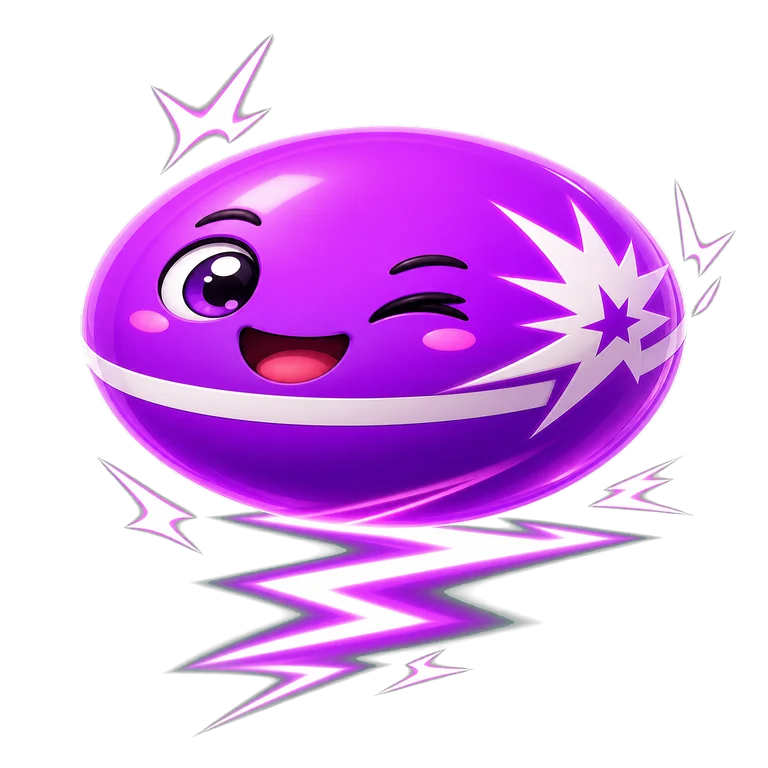
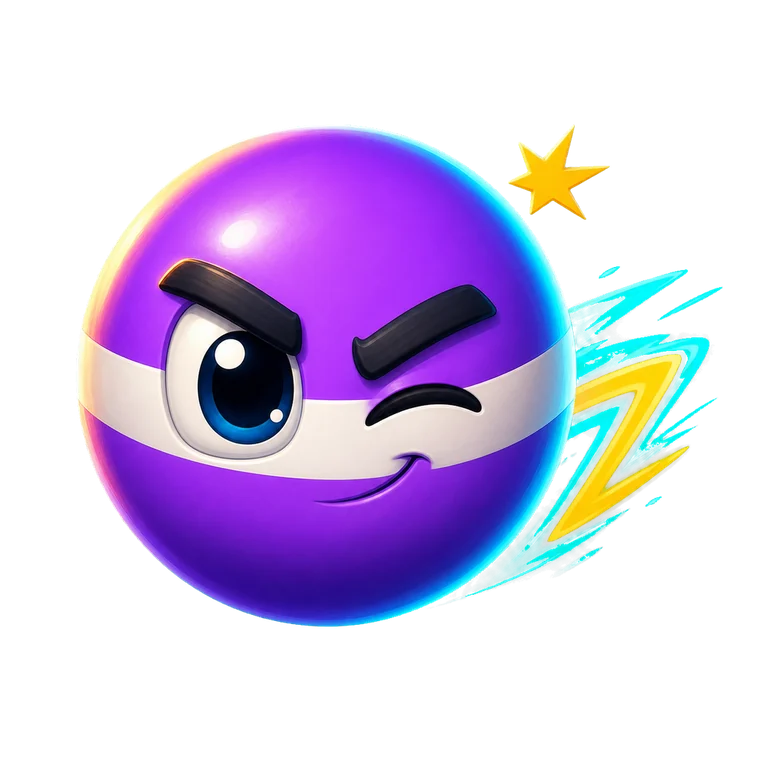
bolas v3 en produccion: los 12 heroes redibujados como una familia
24 piezas nuevas (icon 512 / hero 768, 1,38 MB). Un solo acabado, un solo rig de cara y
la misma luz de marca en las 24. Viaja tambien el pase de tamanos de toque del Home.

diff --git a/play-cktxj8m6/index.html b/play-cktxj8m6/index.html
@@ -346,7 +346,12 @@
   .pr-toggle{ display:flex; align-items:center; gap:11px; } .pr-toggle .tx{ flex:1; font-size:13px; color:#d6dbf4; line-height:1.4; }
   .pr-sw{ width:46px; height:27px; border-radius:999px; background:#ffffff1c; border:1px solid var(--line); position:relative; cursor:pointer; flex:0 0 auto; transition:background .2s; } .pr-sw::after{ content:''; position:absolute; top:2px; left:2px; width:21px; height:21px; border-radius:50%; background:#fff; transition:left .2s; } .pr-sw.on{ background:linear-gradient(#5bc46a,#2fa049); } .pr-sw.on::after{ left:21px; }
   /* --- Fase D: botones de barra (⚙ 🎬), modo jugable, Onboarding (doc 05 §3), Settings (doc 26), canje de codigo (doc 16) --- */
-  .h-ic{ width:34px; height:34px; border-radius:12px; background:#0007; border:1px solid var(--line); color:#e7ebff; font-size:16px; cursor:pointer; display:grid; place-items:center; padding:0; } .h-ic:active{ transform:translateY(1px); }
+  /*+AG auditoria Supercell 26-jul: median 34 px de lado y ademas el flex los encogia a 15-24 px REALES
+     (sintoma del desbordamiento de la fila) — muy por debajo del minimo tactil de 44 px. Se arregla en
+     dos pasos: flex:0 0 auto para que no vuelvan a encogerse nunca, y un halo transparente que sube el
+     area de toque a 44 sin engordar el dibujo (la fila iba justa de ancho: crecer la habria desbordado). */
+  .h-ic{ position:relative; flex:0 0 auto; width:36px; height:36px; border-radius:12px; background:#0007; border:1px solid var(--line); color:#e7ebff; font-size:16px; cursor:pointer; display:grid; place-items:center; padding:0; } .h-ic:active{ transform:translateY(1px); }
+  .h-ic::before{ content:''; position:absolute; inset:-5px; border-radius:16px; }   /* inset mide desde la caja de PADDING: con borde de 1px, -4 daba 42 y no 44 */
   .h-modes .m.open{ filter:none; opacity:1; border-color:var(--gold2); background:#ffffff16; cursor:pointer; box-shadow:0 4px 14px #fbb91533; } .h-modes .m.open .lk{ color:var(--gold2); }
   #onb{ position:absolute; inset:0; z-index:70; background:radial-gradient(120% 80% at 50% 18%,var(--bg),var(--bg-lo)); display:none; flex-direction:column; align-items:center; justify-content:center; padding:24px; }
   #onb.on{ display:flex; }
@@ -453,7 +458,9 @@
   .hero canvas{ width:164px; height:164px; filter:drop-shadow(0 16px 24px #0009); animation:breathe 3.1s ease-in-out infinite; }
   .hero .ballname{ display:flex; align-items:center; gap:7px; font-size:24px; font-weight:900; letter-spacing:-.01em; margin-top:4px; text-shadow:0 3px 14px #000a; }
   .hero .ballcups{ display:flex; align-items:center; justify-content:center; gap:5px; font-size:14px; font-weight:900; color:var(--gold2); font-variant-numeric:tabular-nums; text-shadow:0 2px 8px #fbb91544; }
-  .hero .balltag{ font-size:10px; letter-spacing:.14em; font-weight:800; color:var(--gold2); text-transform:uppercase; text-align:center; }
+  /*+AG 26-jul: iba en ORO y en mayusculas, compitiendo con el lenguaje de recompensa (que es el que tiene
+     que destacar). Es una pista, no un premio: gris apagado y sin gritar. */
+  .hero .balltag{ font-size:9.5px; letter-spacing:.06em; font-weight:700; color:var(--muted); text-align:center; }
   .homebottom{ padding:4px 12px 10px; display:flex; flex-direction:column; gap:8px; z-index:5; }
   .passband{ display:flex; align-items:center; gap:9px; width:max-content; max-width:100%;
     background:linear-gradient(90deg,#2b1d5e,#3a2470); border:1px solid #ffffff26; border-radius:13px; padding:7px 13px 7px 9px; cursor:pointer;
@@ -467,7 +474,7 @@
   .passband .pbar > i{ display:block; height:100%; border-radius:999px; background:linear-gradient(90deg,var(--gold2),var(--gold)); }
   .bottomrow{ display:flex; gap:10px; align-items:stretch; }
   .modecompact{ flex:1 1 0; min-width:0; position:relative; border-radius:18px; overflow:hidden; cursor:pointer;
-    border:1px solid #ffffff26; box-shadow:0 10px 24px #0009, inset 0 1px 0 #ffffff22; padding:10px 11px; display:flex; flex-direction:column; gap:5px;
+    border:1px solid #ffffff26; box-shadow:0 10px 24px #0009, inset 0 1px 0 #ffffff22; padding:13px 11px 10px; display:flex; flex-direction:column; gap:5px;
     transition:transform .1s; }
   .modecompact:active{ transform:scale(.98); }
   .modecompact .mcscrim{ position:absolute; inset:0; z-index:0; }
@@ -475,25 +482,36 @@
   .modecompact .mk{ font-size:9px; letter-spacing:.18em; font-weight:800; color:#ffe9a8; text-transform:uppercase; }
   /*+AG CÓMO JUGAR en el HOME: pastilla en la fila del rótulo "Modo" (no roba alto a la tarjeta).
        Sin tutorial hecho -> texto + "!"; hecho -> .done, solo la (i) redonda. */
-  .modecompact .mkrow{ display:flex; align-items:center; gap:8px; min-height:20px; }
+  /* z-index por encima del nombre del modo: el halo de la (i) baja hasta el, y el que se pinta despues
+     se queda los toques. Sin esto, los ultimos 8 px del area de la (i) abrian el selector. */
+  .modecompact .mkrow{ position:relative; z-index:2; display:flex; align-items:center; gap:8px; min-height:20px; }
   .mchow{ position:relative; margin-left:auto; flex:none; border:1px solid #ffffff40; border-radius:999px;
-    padding:2px 8px 2px 3px; font-family:inherit; font-size:9.5px; font-weight:900; letter-spacing:.04em;
+    padding:7px 10px 7px 5px; font-family:inherit; font-size:9.5px; font-weight:900; letter-spacing:.04em;
     color:#cfe4ff; background:#0b1c33cc; cursor:pointer; display:flex; align-items:center; gap:5px; }
   .mchow:active{ transform:scale(.95); }
-  /* area de toque mayor que el dibujo (la pastilla es pequeña, el dedo no): sin coste de layout */
-  .mchow::before{ content:''; position:absolute; inset:-5px; border-radius:999px; }
-  .mchow.done{ padding:3px; gap:0; }
+  /* area de toque mayor que el dibujo (la pastilla es pequeña, el dedo no): sin coste de layout.
+     26-jul: -5px daba 33 px de alto y el minimo es 44. Dos trampas medidas: el inset cuenta desde la caja
+     de PADDING (con borde de 1px se queda 2 px corto) y la tarjeta RECORTA, asi que lo que asome por
+     encima de su borde deja de recibir toques. Por eso la pastilla engorda un poco y el halo se queda
+     en -8 (44 px reales, dentro de la tarjeta). */
+  .mchow::before{ content:''; position:absolute; inset:-8px; border-radius:999px; }
+  .mchow.done{ padding:5px; gap:0; }
+  .mchow.done::before{ inset:-10px; }
   .mchow.done .mcht, .mchow.done .hbadge{ display:none; }
   .modecompact .mn{ min-width:0; display:flex; align-items:center; gap:7px; font-weight:900; letter-spacing:-.01em; text-shadow:0 2px 8px #000a; }
   .modecompact .micon{ font-size:22px; line-height:1; flex:0 0 auto; }
   /*+AG doc 41 bloque C: el SVG canonico de modo. Va TODO ORO por spec del canal (los colores de
      equipo estan reservados) y la diferenciacion la da la silueta, no el color: no se retinta. */
   .msvg{ width:26px; height:26px; display:block; filter:drop-shadow(0 2px 4px #0008); }
-  .modecompact .micon .msvg{ width:24px; height:24px; }
+  .modecompact .micon .msvg{ width:32px; height:32px; }   /*+AG 26-jul: 24 px era timido; en la carta de modo de Brawl el icono es protagonista, no pie de foto */
   .modecompact .mn b{ min-width:0; font-size:clamp(13px,4vw,16px); line-height:1.08; overflow-wrap:break-word; }
-  .modecompact .mday{ align-self:flex-start; font-size:9px; font-weight:900; color:#3a2400; background:linear-gradient(#ffe27a,#ffb43d); border-radius:999px; padding:3px 8px; box-shadow:0 2px 8px #ffb03d55; }
-  .modecompact .mchange{ margin-top:auto; width:100%; justify-content:center; font-family:inherit; font-size:12px; font-weight:900; letter-spacing:.04em;
+  .modecompact .mday{ align-self:flex-start; max-width:100%; font-size:9px; font-weight:900; color:#3a2400; background:linear-gradient(#ffe27a,#ffb43d); border-radius:999px; padding:3px 8px; box-shadow:0 2px 8px #ffb03d55; }
+  /* version "el bonus esta en OTRO modo": contorno en vez de oro solido, para no prometer un premio que
+     esta tarjeta no da. El oro solido se reserva a "tu modo lo tiene". */
+  .modecompact .mday.elsewhere{ color:#ffe9a8; background:#ffffff14; border:1px solid #ffe9a866; box-shadow:none; }
+  .modecompact .mchange{ position:relative; margin-top:auto; width:100%; justify-content:center; font-family:inherit; font-size:12px; font-weight:900; letter-spacing:.04em;
     color:#fff; background:#ffffff1f; border:1px solid #ffffff59; border-radius:12px; padding:8px 10px; cursor:pointer; display:flex; align-items:center; gap:5px; }
+  .modecompact .mchange::before{ content:''; position:absolute; inset:-6px; border-radius:16px; }   /*+AG 34 px de dibujo -> 44 de toque */
   .modecompact .mchange:active{ transform:scale(.96); }
   .playbig{ flex:0 0 42%; border:0; border-radius:18px; padding:14px 10px; font-family:inherit; font-weight:900; font-size:22px; letter-spacing:.03em;
     color:#3a2400; background:linear-gradient(#ffe27a,#ff9a3d); box-shadow:0 8px 0 #b45a10, 0 12px 30px #ff9a3d55; cursor:pointer;
@@ -513,7 +531,8 @@
   @keyframes sheetin{ 0%{ transform:translateY(100%) scaleY(1.08); } 70%{ transform:translateY(-6px) scaleY(.96); } 100%{ transform:translateY(0) scaleY(1); } }
   .sheet .shead{ display:flex; align-items:center; }
   .sheet .stit{ font-size:12px; font-weight:900; letter-spacing:.18em; color:var(--gold2); text-transform:uppercase; }
-  .sclose{ margin-left:auto; width:36px; height:36px; border-radius:50%; background:#ffffff12; border:1px solid #ffffff2e; color:#fff; font-size:17px; cursor:pointer; display:grid; place-items:center; }
+  .sclose{ position:relative; margin-left:auto; width:36px; height:36px; border-radius:50%; background:#ffffff12; border:1px solid #ffffff2e; color:#fff; font-size:17px; cursor:pointer; display:grid; place-items:center; }
+  .sclose::before{ content:''; position:absolute; inset:-5px; border-radius:50%; }   /*+AG toque de 44 px sin engordar el dibujo */
   .sclose:active{ transform:scale(.94); }
   .sheet .smode{ display:flex; align-items:center; justify-content:center; gap:10px; padding:2px 0 0;
     font-size:clamp(22px,7vw,30px); font-weight:900; letter-spacing:-.01em; text-shadow:0 3px 14px #000a; }
@@ -560,26 +579,46 @@
   #selector .selhead .sub{ font-size:11px; color:var(--muted); font-weight:700; margin-top:1px; }
   .modegrid{ flex:1; min-height:0; overflow-y:auto; padding:8px 14px 18px;
     display:grid; grid-template-columns:1fr 1fr; gap:12px; align-content:start; }
-  .tile{ position:relative; aspect-ratio:1/1.06; border-radius:20px; overflow:hidden; cursor:pointer;
+  /* con las cartas a 4/3 sobran ~600 px por debajo y la pantalla parecia rota. Centrada, el aire se
+     reparte y se lee como una rejilla completa. "safe" = si algun dia hay tantos modos que no caben,
+     vuelve a comportarse como start y no se pierde la primera fila por arriba; los navegadores que no
+     entiendan la palabra clave se saltan la linea entera y se quedan en el start de arriba. */
+  .modegrid{ align-content:safe center; }
+  /*+AG AUDITORIA SUPERCELL 26-jul (Jaime: "las imagenes de los modos son muy grandes, quizas deberian ser
+       mas pequeñas y mas visuales"). Los dos auditores midieron lo mismo: la carta ocupaba 175x186 px
+       (22-26% del alto de pantalla) y lo que identificaba el modo era una franja de 50 px. Las escenas SVG
+       dibujadas a mano no ganaban ese tamaño — el depredador del Cazador daba 1.05:1 de contraste (en gris
+       desaparecia), Luz Roja tenia DOS semaforos compitiendo y los sujetos caian justo debajo del rotulo.
+       Patron de carta de evento de Brawl: la carta baja a 4/3 y el ICONO CANONICO pasa a protagonista
+       sobre el color plano del modo. Sin arte nuevo: los iconos oro ya existen (modeicons-vendored.js). */
+  .tile{ position:relative; aspect-ratio:4/3; border-radius:20px; overflow:hidden; cursor:pointer;
     border:1px solid #ffffff26; box-shadow:0 10px 26px #0009, inset 0 1px 0 #ffffff22; display:flex; flex-direction:column; transition:transform .1s; }
   .tile:active{ transform:scale(.95); }
-  .tile.sel{ border-color:var(--gold2); box-shadow:0 0 0 2px var(--gold2), 0 10px 26px #0009; }
+  /* la seleccion va en BLANCO, el mismo lenguaje que .rktile.on. El dorado se reserva a la accion
+     primaria (JUGAR) y al badge del dia: repartido en tres sitios no marcaba ninguno. */
+  .tile.sel{ border-color:#fff; box-shadow:0 0 0 2px #ffffffcc, 0 10px 26px #0009; }
   .tile .tart{ position:absolute; inset:0; z-index:0; }
-  .tile .tart svg{ width:100%; height:100%; display:block; }
-  .tile .tscrim{ position:absolute; inset:0; z-index:1; background:linear-gradient(180deg, transparent 30%, #06050e26 55%, #06050ee6 100%); }
-  .tile .tbody{ position:relative; z-index:2; margin-top:auto; padding:10px 10px 11px; display:flex; flex-direction:column; align-items:center; gap:3px; text-align:center; }
-  .tile .ticon{ font-size:32px; line-height:1; filter:drop-shadow(0 3px 6px #0009); }
-  .tile .ticon .msvg{ width:32px; height:32px; }
-  .tile .tname{ font-size:14px; font-weight:900; letter-spacing:-.01em; line-height:1.1; text-shadow:0 2px 10px #000b; }
+  .tile[data-mode="race"]    .tart{ background:radial-gradient(120% 85% at 50% 0%, #4aa8ff5c, #4aa8ff00 62%), linear-gradient(180deg,#1a4f9e,#0c2f5a); }
+  .tile[data-mode="cazador"] .tart{ background:radial-gradient(120% 85% at 50% 0%, #ff4d5e5c, #ff4d5e00 62%), linear-gradient(180deg,#7a1626,#2a0a12); }
+  .tile[data-mode="redlight"] .tart{ background:radial-gradient(120% 85% at 50% 0%, #5bd06a5c, #5bd06a00 62%), linear-gradient(180deg,#1c6b34,#0f2e1a); }
+  .tile .tscrim{ position:absolute; inset:0; z-index:1; background:linear-gradient(180deg, transparent 45%, #06050e66 100%); }
+  .tile .tbody{ position:relative; z-index:2; margin:auto; padding:8px 9px; display:flex; flex-direction:column; align-items:center; gap:6px; text-align:center; }
+  .tile .ticon{ font-size:56px; line-height:1; filter:drop-shadow(0 4px 10px #000a); }
+  .tile .ticon .msvg{ width:56px; height:56px; }
+  .tile .tname{ font-size:13.5px; font-weight:900; letter-spacing:-.01em; line-height:1.1; text-shadow:0 2px 10px #000b; }
   .tile .tday{ position:absolute; top:8px; left:8px; z-index:3; font-size:10px; font-weight:900; color:#3a2400;
     background:linear-gradient(#ffe27a,#ffb43d); border-radius:999px; padding:4px 9px; box-shadow:0 3px 10px #ffb03d77, inset 0 1px 0 #fff8; }
   .tile.locked{ background:#0e0d22; border-color:#ffffff14; }
-  .tile.locked .tbody{ margin:auto; gap:6px; }
-  .tile.locked .ticon{ font-size:36px; filter:grayscale(1) brightness(.85); }
-  .tile.locked .tname{ color:#c3c8e0; }
+  .tile.locked .tart{ background:linear-gradient(180deg,#191742,#0e0d22); }
+  .tile.locked .tbody{ gap:4px; }
+  .tile.locked .ticon{ font-size:32px; filter:grayscale(1) brightness(.85); }
+  .tile.locked .ticon .msvg{ width:32px; height:32px; }
+  .tile.locked .tname{ color:#c3c8e0; font-size:12px; }
+  /* el candado va de BADGE en la esquina y no apilado en la columna: en la carta 4/3 no caben
+     cuatro filas (icono + candado + nombre + condicion) sin desbordar a 360x640. */
   .tile .tlk{ font-size:18px; }
-  .tile img.tlk{ width:20px; height:20px; object-fit:contain; }   /*+AG doc 41: candado de arte */
-  .tile .tcond{ font-size:10.5px; font-weight:800; color:#8b93b8; background:#ffffff0d; border:1px solid var(--line); border-radius:999px; padding:4px 9px; }
+  .tile img.tlk{ position:absolute; top:7px; right:7px; z-index:3; width:20px; height:20px; object-fit:contain; }   /*+AG doc 41: candado de arte */
+  .tile .tcond{ font-size:10px; font-weight:800; color:#8b93b8; background:#ffffff0d; border:1px solid var(--line); border-radius:999px; padding:3px 8px; }
   .gridnote{ grid-column:1 / -1; font-size:11px; color:#6f79a0; font-weight:700; text-align:center; padding:2px 0 0; }
   /*+AG COPAS POR BOLA (doc 37): tarjeta de copas de la bola + tabla de 8 puestos en Resultados */
   #results{ overflow-y:auto; justify-content:flex-start; padding-top:calc(20px + env(safe-area-inset-top)); }
@@ -686,7 +725,12 @@
     <div class="h-lvl"><div class="h-lvlnum"><b id="hLvl">1</b></div><div class="cap" data-t="lvl">NIVEL</div></div>
     <button class="h-ic" id="hCode" data-tt="redeemTitle" title="Canjear código">🎬</button>
     <button class="h-ic" id="hSet" data-tt="settings" title="Ajustes">⚙</button>
-    <select id="lang" class="h-lang" data-tp="langWord" aria-label="Idioma"></select>
+    <!--+AG auditoria Supercell 26-jul: este selector (112 px, el elemento mas ancho de la fila) hacia que
+         .h-top pidiera 473 px. A 360 px de ancho las pildoras de moneda se salian de pantalla y la de gemas
+         quedaba INVISIBLE. Supercell no pone idioma en la portada: vive en Ajustes, donde ya habia un
+         selector real (buildSettings). Se queda aqui OCULTO porque es el <select> que ese clon lee y
+         gobierna; quitarlo del DOM romperia el cambio de idioma. -->
+    <select id="lang" class="h-lang" data-tp="langWord" aria-label="Idioma" hidden style="display:none"></select>
     <div class="h-coins">
       <div class="coin chispa" id="cChispa"><img class="cico" src="arte/ui/moneda-chispa.webp" alt=""><span id="hChispas">0</span><span class="pl">+</span></div>
       <div class="coin gema" id="cGema"><img class="cico" src="arte/ui/moneda-gema.webp" alt=""><span id="hGemas">0</span><span class="pl">+</span></div>
@@ -738,7 +782,9 @@
             <button class="mchow" id="mcHow" type="button" data-tt="howTo"><span class="qi">i</span><span class="mcht" data-t="howTo">CÓMO JUGAR</span><span class="hbadge" id="mcHowBadge">!</span></button>
           </div>
           <div class="mn"><span class="micon" id="mcIcon">🏁</span><b id="mcName">LA GRAN CARRERA</b></div>
-          <span class="mday" id="mcDay" data-t="dayBadge">⭐ DÍA · +50%</span>
+          <!-- sin data-t a proposito: el texto lo compone renderHome (dayBadge + nombre del modo del dia) y
+               applyShell lo pisaria al abrir la hoja o el selector -->
+          <span class="mday" id="mcDay">⭐ DÍA · +50%</span>
           <button class="mchange" id="mcChange" type="button"><span data-t="change">CAMBIAR</span> <span>▸</span></button>
         </div>
         <button class="playbig ready" id="hPlay"><span class="tri">▶</span><span data-t="playWord">JUGAR</span></button>
@@ -766,100 +812,38 @@
   <div class="modegrid" id="modegrid">
     <!-- LUZ ROJA -->
     <div class="tile" data-mode="redlight">
-      <div class="tart">
-        <svg viewBox="0 0 320 500" preserveAspectRatio="xMidYMid slice" aria-hidden="true">
-          <defs>
-            <linearGradient id="tlr" x1="0" y1="0" x2="0" y2="1"><stop offset="0" stop-color="#123d1e"/><stop offset=".5" stop-color="#0f2e24"/><stop offset="1" stop-color="#3a0f14"/></linearGradient>
-            <radialGradient id="tlrg" cx="50%" cy="30%" r="55%"><stop offset="0" stop-color="#5bd06a" stop-opacity=".5"/><stop offset="1" stop-color="#5bd06a" stop-opacity="0"/></radialGradient>
-          </defs>
-          <rect width="320" height="500" fill="url(#tlr)"/>
-          <ellipse cx="160" cy="150" rx="160" ry="140" fill="url(#tlrg)"/>
-          <path d="M-20 360 L120 250 L200 250 L360 360 L360 520 L-20 520 Z" fill="#0c2417" opacity=".85"/>
-          <path d="M150 254 L86 360 M170 254 L234 360" stroke="#2e7d46" stroke-width="3" opacity=".5"/>
-          <g transform="translate(160,86)">
-            <rect x="-3" y="66" width="6" height="86" fill="#233" opacity=".8"/>
-            <rect x="-24" y="-8" width="48" height="86" rx="13" fill="#10201a" stroke="#2a3a30" stroke-width="2"/>
-            <circle cx="0" cy="14" r="13" fill="#ff4d4d" opacity=".33"/>
-            <circle cx="0" cy="45" r="13" fill="#ffd23f" opacity=".26"/>
-            <circle cx="0" cy="76" r="13" fill="#5bd06a"/><circle cx="0" cy="76" r="20" fill="#5bd06a" opacity=".3"/>
-          </g>
-          <use href="#tball" x="96" y="300" width="44" height="44" style="color:#4aa8ff"/>
-          <use href="#tball" x="152" y="314" width="36" height="36" style="color:#ffb43d"/>
-          <use href="#tball" x="198" y="302" width="32" height="32" style="color:#e05a6a"/>
-        </svg>
-      </div>
+      <div class="tart"></div>
       <div class="tscrim"></div>
       <div class="tday" data-t="dayBadge" style="display:none">⭐ DÍA · +50%</div>
       <div class="tbody"><div class="ticon">🚦</div><div class="tname" data-mname="redlight">LUZ ROJA</div></div>
     </div>
     <!-- LA GRAN CARRERA -->
     <div class="tile" data-mode="race">
-      <div class="tart">
-        <svg viewBox="0 0 320 500" preserveAspectRatio="xMidYMid slice" aria-hidden="true">
-          <defs>
-            <linearGradient id="tgc" x1="0" y1="0" x2="1" y2="1"><stop offset="0" stop-color="#0c2f5a"/><stop offset=".55" stop-color="#0e2140"/><stop offset="1" stop-color="#0a1428"/></linearGradient>
-            <radialGradient id="tgcg" cx="50%" cy="26%" r="55%"><stop offset="0" stop-color="#4aa8ff" stop-opacity=".45"/><stop offset="1" stop-color="#4aa8ff" stop-opacity="0"/></radialGradient>
-          </defs>
-          <rect width="320" height="500" fill="url(#tgc)"/>
-          <ellipse cx="160" cy="140" rx="170" ry="140" fill="url(#tgcg)"/>
-          <rect x="30" y="330" width="90" height="16" rx="8" fill="#173a63"/>
-          <rect x="200" y="290" width="90" height="16" rx="8" fill="#173a63"/>
-          <rect x="120" y="380" width="90" height="16" rx="8" fill="#173a63"/>
-          <g transform="translate(160,150)" opacity=".92">
-            <circle r="10" fill="#2a5687"/>
-            <g fill="#3d6fa8" stroke="#5b8fc8" stroke-width="2">
-              <path d="M0 0 L64 -14 L64 14 Z"/><path d="M0 0 L-64 14 L-64 -14 Z"/><path d="M0 0 L14 -64 L-14 -64 Z"/><path d="M0 0 L-14 64 L14 64 Z"/>
-            </g>
-            <circle r="7" fill="#8fd0ff"/>
-          </g>
-          <line x1="60" y1="300" x2="110" y2="300" stroke="#18c7d6" stroke-width="4" stroke-linecap="round" opacity=".6"/>
-          <line x1="52" y1="310" x2="96" y2="310" stroke="#18c7d6" stroke-width="4" stroke-linecap="round" opacity=".4"/>
-          <use href="#tball" x="104" y="286" width="46" height="46" style="color:#4aa8ff"/>
-          <use href="#tball" x="214" y="252" width="34" height="34" style="color:#ff7a3d"/>
-          <use href="#tball" x="138" y="344" width="32" height="32" style="color:#46d17f"/>
-        </svg>
-      </div>
+      <div class="tart"></div>
       <div class="tscrim"></div>
       <div class="tday" data-t="dayBadge" style="display:none">⭐ DÍA · +50%</div>
       <div class="tbody"><div class="ticon">🏁</div><div class="tname" data-mname="race">LA GRAN CARRERA</div></div>
     </div>
     <!-- EL CAZADOR -->
     <div class="tile" data-mode="cazador">
-      <div class="tart">
-        <svg viewBox="0 0 320 500" preserveAspectRatio="xMidYMid slice" aria-hidden="true">
-          <defs>
-            <linearGradient id="tcz" x1="0" y1="0" x2="0" y2="1"><stop offset="0" stop-color="#3a0d16"/><stop offset=".55" stop-color="#24091a"/><stop offset="1" stop-color="#12060f"/></linearGradient>
-            <radialGradient id="tczg" cx="50%" cy="30%" r="52%"><stop offset="0" stop-color="#ff4d5e" stop-opacity=".4"/><stop offset="1" stop-color="#ff4d5e" stop-opacity="0"/></radialGradient>
-          </defs>
-          <rect width="320" height="500" fill="url(#tcz)"/>
-          <ellipse cx="160" cy="150" rx="160" ry="140" fill="url(#tczg)"/>
-          <g transform="translate(160,168)">
-            <path d="M-70 40 Q-78 -60 0 -66 Q78 -60 70 40 Q40 58 0 54 Q-40 58 -70 40 Z" fill="#2b0a14" stroke="#5a1220" stroke-width="3"/>
-            <path d="M-52 -30 L-38 -58 L-26 -32 Z M52 -30 L38 -58 L26 -32 Z" fill="#3a0d16" stroke="#5a1220" stroke-width="2"/>
-            <circle cx="-26" cy="-2" r="13" fill="#ff3b3b"/><circle cx="-26" cy="-2" r="19" fill="#ff3b3b" opacity=".3"/>
-            <circle cx="26" cy="-2" r="13" fill="#ff3b3b"/><circle cx="26" cy="-2" r="19" fill="#ff3b3b" opacity=".3"/>
-            <circle cx="-24" cy="0" r="5" fill="#2b0a14"/><circle cx="28" cy="0" r="5" fill="#2b0a14"/>
-            <path d="M-30 30 L-20 24 L-10 30 L0 24 L10 30 L20 24 L30 30 L26 40 L-26 40 Z" fill="#fff" opacity=".9"/>
-          </g>
-          <use href="#tball" x="60" y="360" width="40" height="40" style="color:#4aa8ff"/>
-          <use href="#tball" x="210" y="352" width="36" height="36" style="color:#ffd23f"/>
-        </svg>
-      </div>
+      <div class="tart"></div>
       <div class="tscrim"></div>
       <div class="tday" data-t="dayBadge" style="display:none">⭐ DÍA · +50%</div>
       <div class="tbody"><div class="ticon">🎯</div><div class="tname" data-mname="cazador">EL CAZADOR</div></div>
     </div>
     <!-- RECOLECTA (bloqueado decorativo) -->
     <div class="tile locked" data-locklvl="5">
-      <div class="tart"><svg viewBox="0 0 320 500" preserveAspectRatio="xMidYMid slice"><rect width="320" height="500" fill="#141230"/></svg></div>
+      <div class="tart"></div>
       <div class="tscrim"></div>
-      <div class="tbody"><div class="ticon" data-mico="recolecta"></div><img class="tlk" src="arte/ui/ui-candado.webp" alt=""><div class="tname" data-t="mRecolecta">RECOLECTA</div><div class="tcond" data-lvln="5">Nivel 5</div></div>
+      <img class="tlk" src="arte/ui/ui-candado.webp" alt="">
+      <div class="tbody"><div class="ticon" data-mico="recolecta"></div><div class="tname" data-t="mRecolecta">RECOLECTA</div><div class="tcond" data-lvln="5">Nivel 5</div></div>
     </div>
     <!-- SUELO MENGUANTE (bloqueado decorativo) -->
     <div class="tile locked" data-locklvl="8">
-      <div class="tart"><svg viewBox="0 0 320 500" preserveAspectRatio="xMidYMid slice"><rect width="320" height="500" fill="#141230"/></svg></div>
+      <div class="tart"></div>
       <div class="tscrim"></div>
-      <div class="tbody"><div class="ticon" data-mico="suelo"></div><img class="tlk" src="arte/ui/ui-candado.webp" alt=""><div class="tname" data-t="mSuelo">SUELO MENGUANTE</div><div class="tcond" data-lvln="8">Nivel 8</div></div>
+      <img class="tlk" src="arte/ui/ui-candado.webp" alt="">
+      <div class="tbody"><div class="ticon" data-mico="suelo"></div><div class="tname" data-t="mSuelo">SUELO MENGUANTE</div><div class="tcond" data-lvln="8">Nivel 8</div></div>
     </div>
     <div class="gridnote" data-t="gridNote">Tocar un modo lo deja elegido en el inicio · JUGAR lo arranca desde allí</div>
   </div>
@@ -891,18 +875,6 @@
     <button class="tab" data-nav="perfil"><i class="tico t-perfil"></i><span data-t="tPerfil">Perfil</span></button>
   </div>
 </div>
-<!-- bola-criatura de los tiles (simbolo compartido, del mockup) -->
-<svg width="0" height="0" style="position:absolute" aria-hidden="true">
-  <symbol id="tball" viewBox="0 0 64 64">
-    <circle cx="32" cy="35" r="25" fill="currentColor"/>
-    <ellipse cx="24" cy="24" rx="9" ry="6" fill="#fff" opacity=".26"/>
-    <circle cx="26" cy="33" r="5.4" fill="#fff"/>
-    <circle cx="40" cy="33" r="5.4" fill="#fff"/>
-    <circle cx="27.2" cy="34" r="2.5" fill="#10202f"/>
-    <circle cx="41.2" cy="34" r="2.5" fill="#10202f"/>
-    <path d="M25 43 Q32 49 39 43" stroke="#10202f" stroke-width="3" fill="none" stroke-linecap="round"/>
-  </symbol>
-</svg>
 <!-- ===== HOJA DE FORMATO (bottom sheet: "Vas a jugar" -> individual / por equipos; regla de oro del copy) ===== -->
 <div class="sheetwrap" id="fmtSheet" aria-hidden="true">
   <div class="sheetback" id="sheetBack"></div>
@@ -2738,7 +2710,14 @@ function renderHome(){ applyShell();
   const m=MODOS[SAVE.mode]||MODOS.race;
   el('mcIcon').innerHTML=modeIco(SAVE.mode); el('mcName').textContent=modeTitle(SAVE.mode);
   el('mcScrim').style.background=m.grad;
-  el('mcDay').style.display = SAVE.mode===dayMode() ? '' : 'none';
+  //+AG auditoria Supercell 26-jul: el bonus del dia era INVISIBLE desde la Home cuando el modo elegido no
+  //   era el del dia (solo se descubria entrando al selector), y es justo el gancho para rotar de modo.
+  //   Ahora la pildora esta siempre: dorada solida = lo tiene TU modo; fantasma con chevron = esta en otro
+  //   y dice cual (tocar la tarjeta ya abre el selector). Se compone de piezas ya traducidas a los 9
+  //   idiomas (dayBadge + modeTitle), asi que no hace falta cadena nueva.
+  const _md=el('mcDay'), _isDay=SAVE.mode===dayMode();
+  _md.style.display=''; _md.classList.toggle('elsewhere', !_isDay);
+  _md.textContent = _isDay ? S().dayBadge : (S().dayBadge+' · '+modeTitle(dayMode())+' ▸');
   el('mcHow').classList.toggle('done', !!SAVE.tutorialDone[SAVE.mode]);   //+AG hecho -> se encoge a la (i) sola
   el('hPassSub').textContent=S().passSub(SAVE.level, SAVE.xp+'/'+xpForLevel(SAVE.level));
   el('hPassBar').style.width=Math.round(100*SAVE.xp/xpForLevel(SAVE.level))+'%';
@@ -3707,7 +3686,17 @@ if(CHEAT_MONEDAS){
   }, true);
 }
 // ============================================================================
-el('hPlay').onclick=openSheet;   //+AG regla de oro del copy: JUGAR abre la HOJA DE FORMATO (alli los botones que si arrancan)
+//+AG auditoria Supercell 26-jul: JUGAR abria SIEMPRE la hoja de formato (docs/35 v2.2), pero con
+//   TEAM_READY todo a false la hoja ofrece UNA sola opcion jugable: era un toque de mas en cada partida,
+//   y en Brawl/Clash el boton de batalla arranca en uno. Ahora la hoja solo se interpone cuando aporta:
+//     · el modo tiene POR EQUIPOS vivo (hay algo que elegir), o
+//     · aun no has hecho el tutorial de ese modo (la hoja es una de las dos puertas de CÓMO JUGAR; la
+//       otra, la (i) de la tarjeta, sigue estando siempre). Hecho el tutorial, JUGAR arranca directo.
+//   El dia que un modo encienda equipos, la hoja vuelve sola: no hay que tocar nada aqui.
+el('hPlay').onclick=()=>{
+  if(TEAM_READY[SAVE.mode] || !SAVE.tutorialDone[SAVE.mode]) return openSheet();
+  SAVE.fmt='individual'; persist(); startRace(SAVE.mode,'individual');
+};
 el('rAgain').onclick=()=>startRace(curMode,curFmt); el('rHome').onclick=goHome;
 //+AG doc 34 Fase C: navegacion de pestañas por data-nav (incluye Temporada/Perfil, antes eran toast)
 const NAV={ jugar:goHome, garaje:openGaraje, tienda:openTienda, temporada:openTemporada, perfil:openPerfil, ranking:openRanking };
@@ -3755,11 +3744,27 @@ window.__fitCheck=function(w,h){
       // solo cuentan las cajas que RECORTAN de verdad (overflow != visible): son las unicas donde el jugador
       // pierde contenido si no desliza. Una caja con overflow visible "sobresale" en el papel pero se ve
       // entera — p.ej. una tarjeta que entra animandose con un translateY de 8px.
+      const nom=d=>(d.id||d.className||d.tagName).toString().slice(0,32), scr=n+(st?(' · paso '+st):'');
       [e, ...e.querySelectorAll('*')].forEach(d=>{
         if(d.clientHeight<60) return;
         if(d!==e && getComputedStyle(d).overflowY==='visible') return;
         const extra=d.scrollHeight-d.clientHeight;
-        if(extra>4) out.push({screen:n+(st?(' · paso '+st):''), box:(d.id||d.className||d.tagName).toString().slice(0,32), extra});
+        if(extra>4) out.push({screen:scr, box:nom(d), eje:'alto', extra});
+      });
+      //+AG PUNTO CIEGO CAZADO EL 26-jul: esto solo miraba el ALTO. La fila de arriba de la Home pedia 473 px
+      //   de ancho y a 360 px la pildora de gemas quedaba ENTERA fuera de pantalla, recortada por el overflow
+      //   de #home — y __fitCheck devolvia [] tan tranquilo. "Cabe" es en los DOS ejes.
+      //   El ancho NO se mide con scrollWidth: el barrido decorativo de .ready (::after de 32% asomando por
+      //   la izquierda) lo infla 120 px y ahi no se pierde nada, seria un falso positivo cada vez. Se mide
+      //   sobre lo que el jugador LEE — cajas con texto propio e imagenes — que acabe fuera de la columna.
+      const col=e.getBoundingClientRect();
+      e.querySelectorAll('*').forEach(d=>{
+        if(!d.offsetParent && getComputedStyle(d).position!=='fixed') return;
+        const propio = d.tagName==='IMG' || [...d.childNodes].some(x=>x.nodeType===3 && x.textContent.trim());
+        if(!propio) return;
+        const r=d.getBoundingClientRect(); if(r.width<6 || r.height<6) return;
+        const fuera=Math.round(Math.max(r.right-col.right, col.left-r.left));
+        if(fuera>1) out.push({screen:scr, box:nom(d), eje:'ancho', extra:fuera});
       });
     }
     if(n==='results') e.dataset.step='1';
